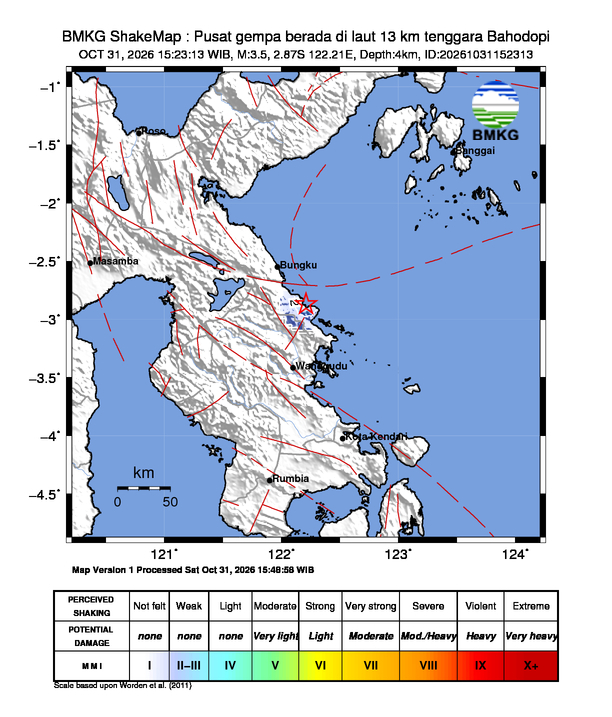
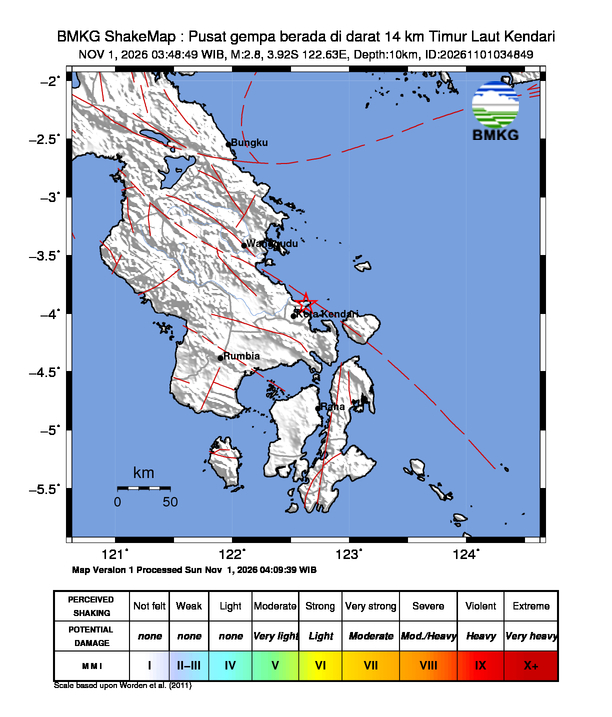
docs: update info gempa & README - 2026-11-01 07:04:15 WIB [skip ci]

diff --git a/README.md b/README.md
@@ -2,7 +2,7 @@
 
 > Monitor gempa bumi real-time untuk wilayah Indonesia. Data diambil otomatis dari **BMKG** setiap 5 menit oleh GitHub Actions, lalu ditampilkan lengkap di README ini beserta peta guncangannya (shakemap).
 
-🕒 **Update otomatis terakhir:** Sabtu, 31 Oktober 2026 pukul 20.48.31
+🕒 **Update otomatis terakhir:** Minggu, 01 November 2026 pukul 07.04.14
 
 ---
 
@@ -10,13 +10,13 @@
 
 | Parameter | Detail |
 | --- | --- |
-| 📊 **Magnitudo** | M 3.5 |
-| 📍 **Wilayah** | Pusat gempa berada di laut 13 km tenggara Bahodopi |
-| 🕒 **Waktu** | 31 Okt 2026, 15:23:13 WIB |
-| 🧭 **Koordinat** | -2.87,122.21 |
-| 📏 **Kedalaman** | 4 km |
+| 📊 **Magnitudo** | M 2.8 |
+| 📍 **Wilayah** | Pusat gempa berada di darat 14 km Timur Laut Kendari |
+| 🕒 **Waktu** | 01 Nov 2026, 03:48:49 WIB |
+| 🧭 **Koordinat** | -3.92,122.63 |
+| 📏 **Kedalaman** | 10 km |
 | 🌊 **Potensi** | Gempa ini dirasakan untuk diteruskan pada masyarakat |
-| 📡 **Dirasakan** | II - III Morowali |
+| 📡 **Dirasakan** | II - III Kota Kendari |
 | 🔗 **Sumber** | [BMKG — InfoGempa Realtime](https://www.bmkg.go.id/gempabumi) |
 
 ### 🗺 Peta Guncangan (Shakemap)
@@ -29,6 +29,7 @@
 
 | Waktu | Magnitudo | Wilayah | Kedalaman | Potensi |
 | --- | --- | --- | --- | --- |
+| 01 Nov 2026 03:48:49 WIB | **M 2.8** | Pusat gempa berada di darat 14 km Timur Laut Kendari | 10 km | Gempa ini dirasakan untuk diteruskan pada masyarakat |
 | 31 Okt 2026 15:23:13 WIB | **M 3.5** | Pusat gempa berada di laut 13 km tenggara Bahodopi | 4 km | Gempa ini dirasakan untuk diteruskan pada masyarakat |
 | 31 Okt 2026 12:39:20 WIB | **M 4.8** | Pusat gempa berada di laut 97 km barat Kodi, Sumba Barat Daya | 28 km | Gempa ini dirasakan untuk diteruskan pada masyarakat |
 | 30 Okt 2026 17:29:39 WIB | **M 3.5** | Pusat gempa berada di darat 7 km barat daya Samosir | 3 km | Gempa ini dirasakan untuk diteruskan pada masyarakat |
@@ -43,7 +44,6 @@
 | 25 Okt 2026 14:40:01 WIB | **M 4.7** | Pusat gempa berada di darat 44 km barat Kab. Aceh Tamiang | 10 km | Gempa ini dirasakan untuk diteruskan pada masyarakat |
 | 22 Okt 2026 17:57:49 WIB | **M 5.2** | Pusat gempa berada di darat 6 km BaratLaut Lebong | 120 km | Gempa ini dirasakan untuk diteruskan pada masyarakat |
 | 21 Okt 2026 18:58:36 WIB | **M 2.5** | Pusat gempa berada di darat 9 km utara Tanggamus | 3 km | Gempa ini dirasakan untuk diteruskan pada masyarakat |
-| 21 Okt 2026 14:44:15 WIB | **M 5.1** | 62 km TimurLaut MALUKUBRTDAYA | 96 km | Tidak berpotensi tsunami |
 
 ---
 
